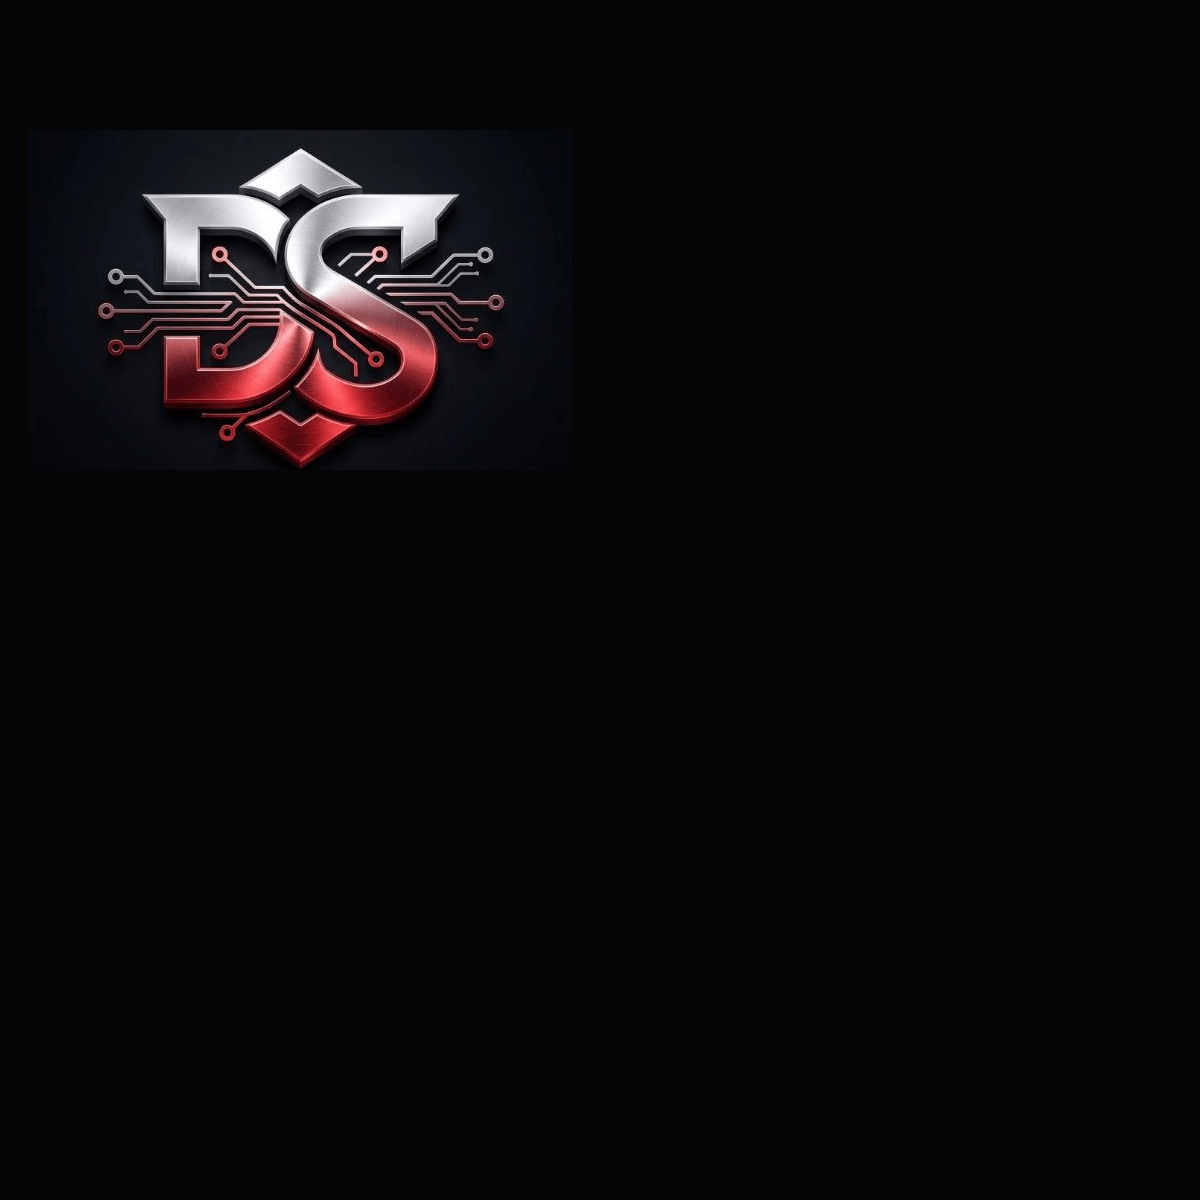
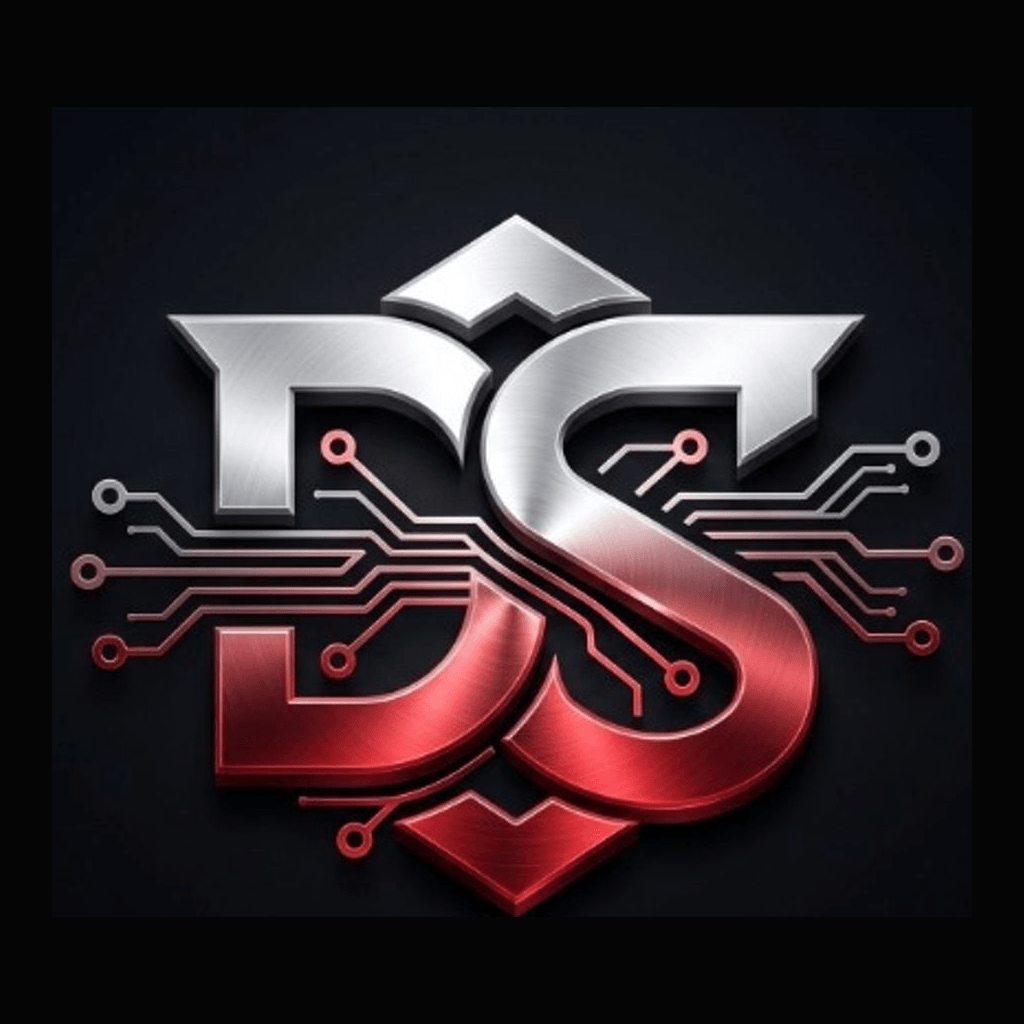
fix(branding): center and expand DS emblem to fill containers proudly and sharply

diff --git a/src/components/sections/ContactSection.tsx b/src/components/sections/ContactSection.tsx
@@ -413,23 +413,23 @@ export function ContactSection() {
 
               <div>
                 {/* 1. LOGO REAL + IDENTIDAD */}
-                <div className="flex items-center gap-4 pb-6 border-b border-white/[0.08]">
-                  <div className="relative w-18 h-18 sm:w-20 sm:h-20 rounded-2xl overflow-hidden border border-white/15 bg-black p-[2px] shadow-[0_0_24px_-4px_rgba(229,9,20,0.4)] flex-shrink-0 group-hover:border-red-500/50 group-hover:shadow-[0_0_28px_-3px_rgba(229,9,20,0.55)] transition-all">
+                <div className="flex items-center gap-5 pb-6 border-b border-white/[0.08]">
+                  <div className="relative w-22 h-22 sm:w-28 sm:h-28 rounded-2xl overflow-hidden border border-white/20 bg-black p-[3px] shadow-[0_0_30px_-4px_rgba(229,9,20,0.5)] flex-shrink-0 group-hover:border-red-500/60 group-hover:shadow-[0_0_35px_-2px_rgba(229,9,20,0.7)] transition-all">
                     <Image
                       src="/branding/dansuar-tech-emblem-4k.png"
                       alt="Logo DANSUAR TECH"
-                      width={160}
-                      height={160}
+                      width={224}
+                      height={224}
                       quality={100}
                       unoptimized
-                      className="w-full h-full object-contain rounded-[14px]"
+                      className="w-full h-full object-contain rounded-[14px] transform group-hover:scale-105 transition-transform"
                     />
                   </div>
                   <div>
-                    <h3 className="text-xl sm:text-2xl font-black tracking-tight text-white flex items-center gap-1">
+                    <h3 className="text-2xl sm:text-3xl font-black tracking-tight text-white flex items-center gap-1">
                       DANSUAR<span className="text-[#e50914]">.</span>TECH
                     </h3>
-                    <p className="text-xs text-zinc-400 leading-snug mt-1 font-mono">
+                    <p className="text-xs sm:text-sm text-zinc-300 leading-snug mt-1.5 font-mono">
                       Impulsando negocios con software e inteligencia artificial.
                     </p>
                   </div>

diff --git a/src/components/layout/Navbar.tsx b/src/components/layout/Navbar.tsx
@@ -43,15 +43,15 @@ export function Navbar() {
             aria-label="DANSUAR TECH Inicio"
             id="brand-logo-link"
           >
-            <div className="relative h-11 w-11 rounded-xl overflow-hidden border border-white/15 bg-black p-[2px] shadow-[0_0_20px_-5px_rgba(229,9,20,0.4)] group-hover:border-red-500/60 group-hover:shadow-[0_0_25px_-3px_rgba(229,9,20,0.6)] transition-all flex-shrink-0">
+            <div className="relative h-13 w-13 sm:h-14 sm:w-14 rounded-2xl overflow-hidden border border-white/20 bg-black p-[2px] shadow-[0_0_24px_-4px_rgba(229,9,20,0.5)] group-hover:border-red-500/70 group-hover:shadow-[0_0_30px_-2px_rgba(229,9,20,0.7)] transition-all flex-shrink-0">
               <Image
                 src="/branding/dansuar-tech-emblem-4k.png"
                 alt="DANSUAR TECH Logo"
-                width={96}
-                height={96}
+                width={128}
+                height={128}
                 quality={100}
                 unoptimized
-                className="h-full w-full object-contain rounded-[10px]"
+                className="h-full w-full object-contain rounded-[12px] transform group-hover:scale-105 transition-transform"
                 priority
               />
             </div>

diff --git a/src/components/layout/Footer.tsx b/src/components/layout/Footer.tsx
@@ -23,15 +23,15 @@ export function Footer() {
           {/* 1. Brand identity + Logo Real */}
           <div className="md:col-span-5 space-y-4">
             <Link href="/" className="inline-flex items-center gap-3.5 group" id="footer-logo">
-              <div className="relative w-12 h-12 rounded-xl overflow-hidden border border-white/20 bg-black p-[2px] shadow-[0_0_18px_-4px_rgba(229,9,20,0.4)] group-hover:border-red-500/50 transition-all flex-shrink-0">
+              <div className="relative w-14 h-14 rounded-2xl overflow-hidden border border-white/20 bg-black p-[2px] shadow-[0_0_20px_-4px_rgba(229,9,20,0.45)] group-hover:border-red-500/50 transition-all flex-shrink-0">
                 <Image
                   src="/branding/dansuar-tech-emblem-4k.png"
                   alt="Logo DANSUAR TECH"
-                  width={96}
-                  height={96}
+                  width={128}
+                  height={128}
                   quality={100}
                   unoptimized
-                  className="w-full h-full object-contain rounded-[10px]"
+                  className="w-full h-full object-contain rounded-[12px]"
                 />
               </div>
               <div>
